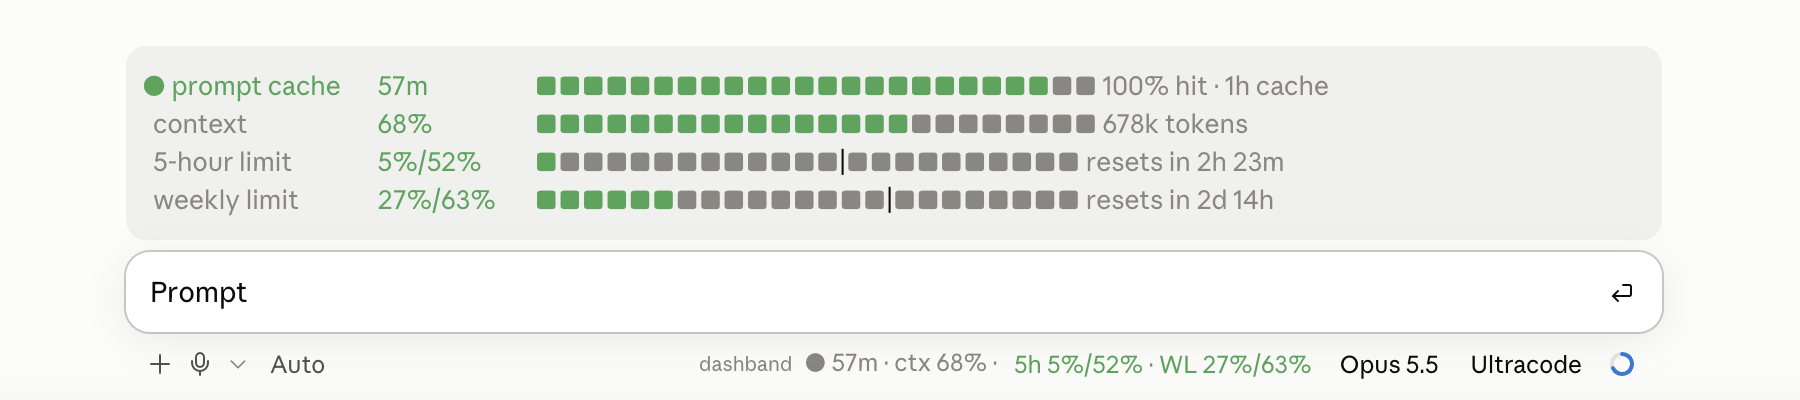
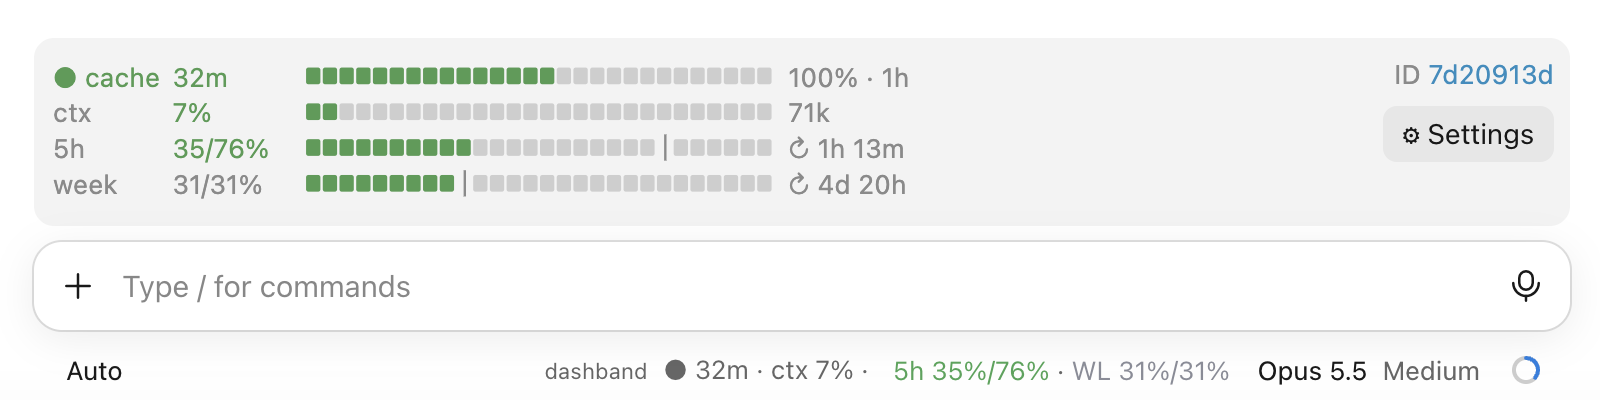
chore(release): 0.2.0

diff --git a/hooks/band.ts b/hooks/band.ts
@@ -133,8 +133,7 @@ const HEX: Record<string, string> = {
   red: '#d9534f',
   gray: '#8a8a8a',
 }
-// The session id: a shade darker than the info blue of the Mesodia styleguide (acc-info-h #3BA3D0),
-// still readable on light and dark.
+// The session id: a mid blue, readable on light and dark.
 export const ID_COLOR = '#2F8DBF'
 const hex = (color: string) => HEX[color] ?? color
 // A bar on pace draws green; its value stays gray.

diff --git a/README.md b/README.md
@@ -9,7 +9,7 @@ In the terminal:
 
 In the Code tab of the Claude Desktop app:
 
-![dashband in the Claude Desktop app: the band above the prompt, cache and context in the status line, the limits in the footer](docs/dashband-desktop.png)
+![dashband in the Claude Desktop app: the band above the prompt with the session id and the Settings button, cache and context in the status line, the limits in the footer](docs/dashband-desktop.png)
 
 As text, the footer:
 
@@ -17,14 +17,17 @@ As text, the footer:
 ● 42m · ctx 31% · 5h 12%/40% · WL 70%/96%
 ```
 
-and the band:
+and the band in the terminal:
 
 ```
-● prompt cache  42m       ■■■■■■■■■■■■■■■■■■■■■■■■ 100% hit · 1h cache
-  context       31%       ■■■■■■■■■■■■■■■■■■■■■■■■ 310k tokens
-  5-hour limit  12%/40%   ■■■■■■■■■■■■■■■■■■■■■■■■ resets in 3h 0m
-  weekly limit  70%/96%   ■■■■■■■■■■■■■■■■■■■■■■■│ resets in 7h 0m
+● cache 42m      ■■■■■■■■■■■□□□□□ 100% · 1h · ID 46b74c3d
+ctx     31%      ■■■■■□□□□□□□□□□□ 310k
+5h      12/40%   ■■□□□□│□□□□□□□□□ ↻ 3h 0m
+week    70/96%   ■■■■■■■■■■■□□□□│ ↻ 7h 0m
 ```
+
+The Desktop app draws the band as a small graphic with finer bars, the session id and a
+**Settings** button on the right. Each row shows its details as a tooltip.
 
 ## Why
 
@@ -39,9 +42,11 @@ until they reset.
 | Item | Meaning |
 |---|---|
 | `● 42m` | Time left until the prompt cache expires: green while more than 2 minutes are left, yellow in the last 2 minutes, gray `cold` once expired, `hot` while Claude is working |
-| `100% hit` (band) | Share of the last response's input tokens read from the cache |
+| `100%` (band) | Share of the last response's input tokens read from the cache; then the cache lifetime |
 | `ctx 31%` | How full the context window is: green, orange from 75 %, red from 90 % |
 | `5h 12%/40%` | Five-hour limit: used, and where usage would be by now if spread evenly over the window |
+| `↻ 3h 0m` (band) | Time until the limit resets |
+| `ID 46b74c3d` (band) | The first eight characters of the session id, to tell chats apart |
 | `WL 70%/96%` | Weekly limit, the same way |
 
 The limits are colored by pace, used minus expected:
@@ -51,22 +56,34 @@ The limits are colored by pace, used minus expected:
 | green | 10 points or more below |
 | gray | about on pace |
 | orange | up to 15 points above |
-| red | more than 15 points above |
+| red | more than 15 points above, or the limit is used up |
 
 In the terminal, the footer shows everything as one colored item. The Desktop app cuts a footer
 item short, so there cache and context appear in the status line, which the app labels with the
 mod's name and draws without colors, and the limits follow as a colored item. The band adds a bar
 for each item. On the limit bars, `│` marks where usage would be by now.
 Two minutes before the cache expires, the cache turns yellow and a notice stays for a minute,
-saying how many tokens the next request would write again.
+naming the session and saying how many tokens the next request would write again.
+
+## Settings
+
+In the Desktop app, **⚙ Settings** beside the band opens the settings below it. They apply to
+every chat.
+
+![dashband in the Claude Desktop app with the settings open below the band: size S, M or L, and limits expected by now or by midnight](docs/dashband-desktop-settings.png)
+
+| Setting | Choices |
+|---|---|
+| Size | `S`, `M`, `L`: the size of the band |
+| Limits expected by | `Now`: where usage would be by now. `Midnight`: where it may be at the end of the day (local time), or at the reset if that comes first |
 
 The cache lifetime, five minutes or one hour, is read from the session transcript. The plan
 limits appear only on a Claude subscription.
 
 ## Requirements
 
-- Claude Code with mod support (2.1.287 or later); tested with Claude Code 2.1.289 in the
-  terminal and the Claude Desktop app 2.31226
+- Claude Code with mod support (2.1.287 or later); tested with Claude Code 2.1.295 in the
+  terminal and the Claude Desktop app
 - The terminal (CLI) or the Code tab of the Claude Desktop app. Mods do not draw in the
   VS Code extension, on mobile, or in `claude -p`.
 - macOS or Linux for the cache lifetime: dashband reads the transcript with `sh` and `tail`.
@@ -116,14 +133,15 @@ To load it in every session, including the Desktop app, add the folder to `env` 
 
 - The countdown estimates expiry from the time of the last response. It cannot see the cache on
   the server.
-- **Desktop app: the band shows in one chat at a time.** With several chats open, the app asks
-  only the active one for the band, and chats that were open when the app started may never
-  show it. This is a known issue of the app
-  ([anthropics/claude-code#99265](https://github.com/anthropics/claude-code/issues/99265)).
-  The footer item shows in every chat; the terminal is not affected.
 - **Desktop app: a new chat shows dashband once you have sent the first message in it.** The app
   starts Claude Code for a chat only then. A chat with an existing conversation shows it shortly
-  after you open it, also after an app start.
+  after you open it, also after an app start; one that waits for your answer to a question
+  shows it once you have answered.
+- Settings are available in the Desktop app only; the terminal draws the band as text.
+
+Older versions of the Desktop app drew the band in only one chat at a time
+([anthropics/claude-code#99265](https://github.com/anthropics/claude-code/issues/99265), fixed
+in October 2026).
 
 ## Development
 

diff --git a/CHANGELOG.md b/CHANGELOG.md
@@ -6,11 +6,14 @@ and this project adheres to [Semantic Versioning](https://semver.org/spec/v2.0.0
 
 ## [Unreleased]
 
+## [0.2.0] - 2026-10-28
+
 ### Changed
 
 - The band above the prompt is compact: short labels and a tooltip on each row with the details.
   The Desktop app draws it as a small SVG, the terminal as narrower text.
 - Plan limits show used and expected usage with a percent sign, as `23/53%`.
+- README: the Desktop app now draws the band in every chat (anthropics/claude-code#99265 is fixed)
 
 ### Added
 
@@ -47,6 +50,7 @@ and this project adheres to [Semantic Versioning](https://semver.org/spec/v2.0.0
 - A notice two minutes before the prompt cache expires
 - Optional trace for troubleshooting
 
-[Unreleased]: https://github.com/EgonLeitner/dashband/compare/v0.1.1...HEAD
+[Unreleased]: https://github.com/EgonLeitner/dashband/compare/v0.2.0...HEAD
+[0.2.0]: https://github.com/EgonLeitner/dashband/compare/v0.1.1...v0.2.0
 [0.1.1]: https://github.com/EgonLeitner/dashband/compare/v0.1.0...v0.1.1
 [0.1.0]: https://github.com/EgonLeitner/dashband/releases/tag/v0.1.0
